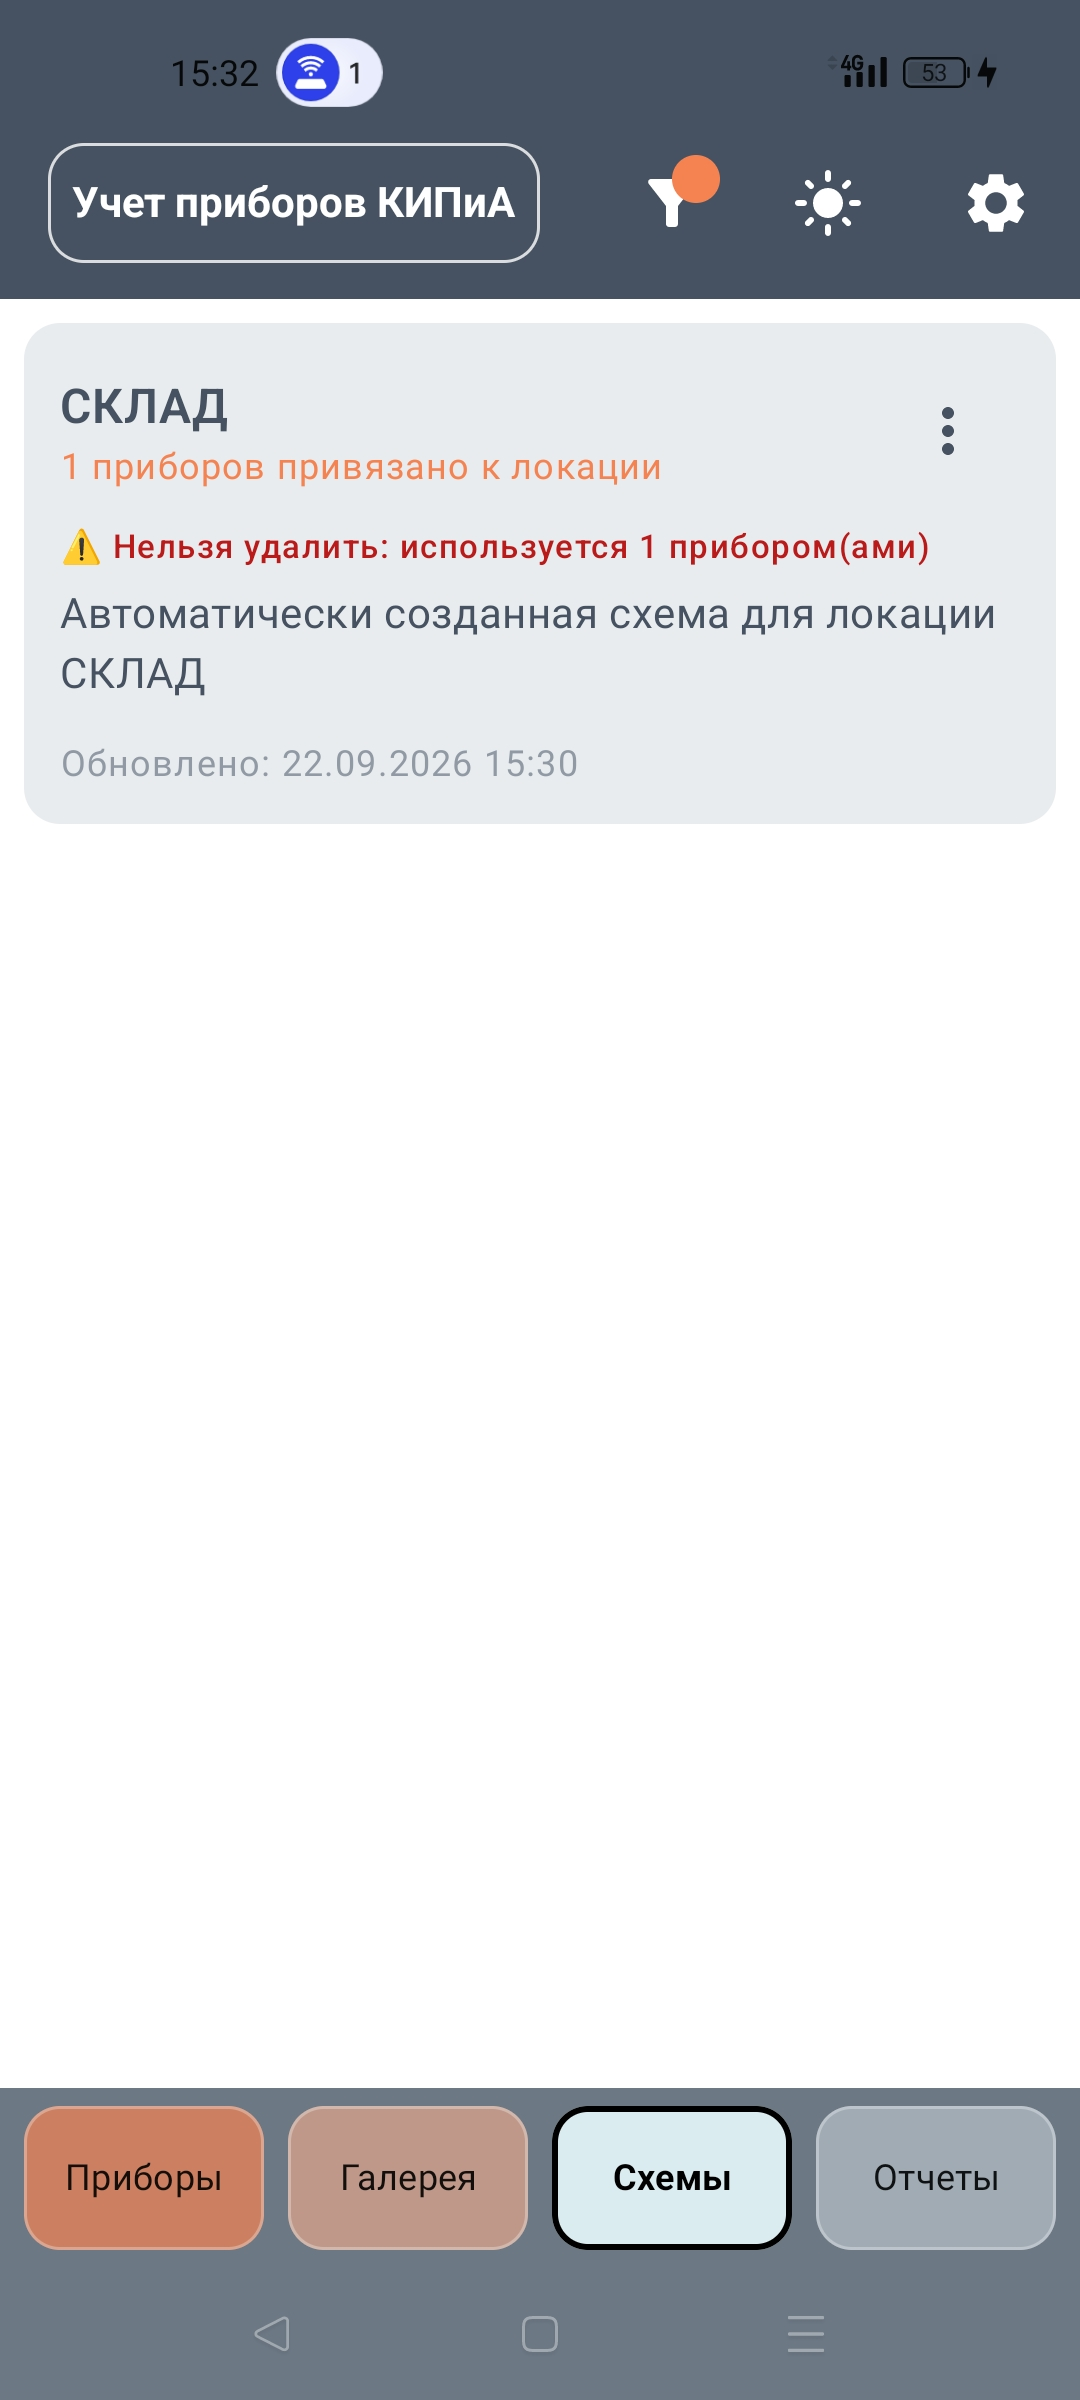
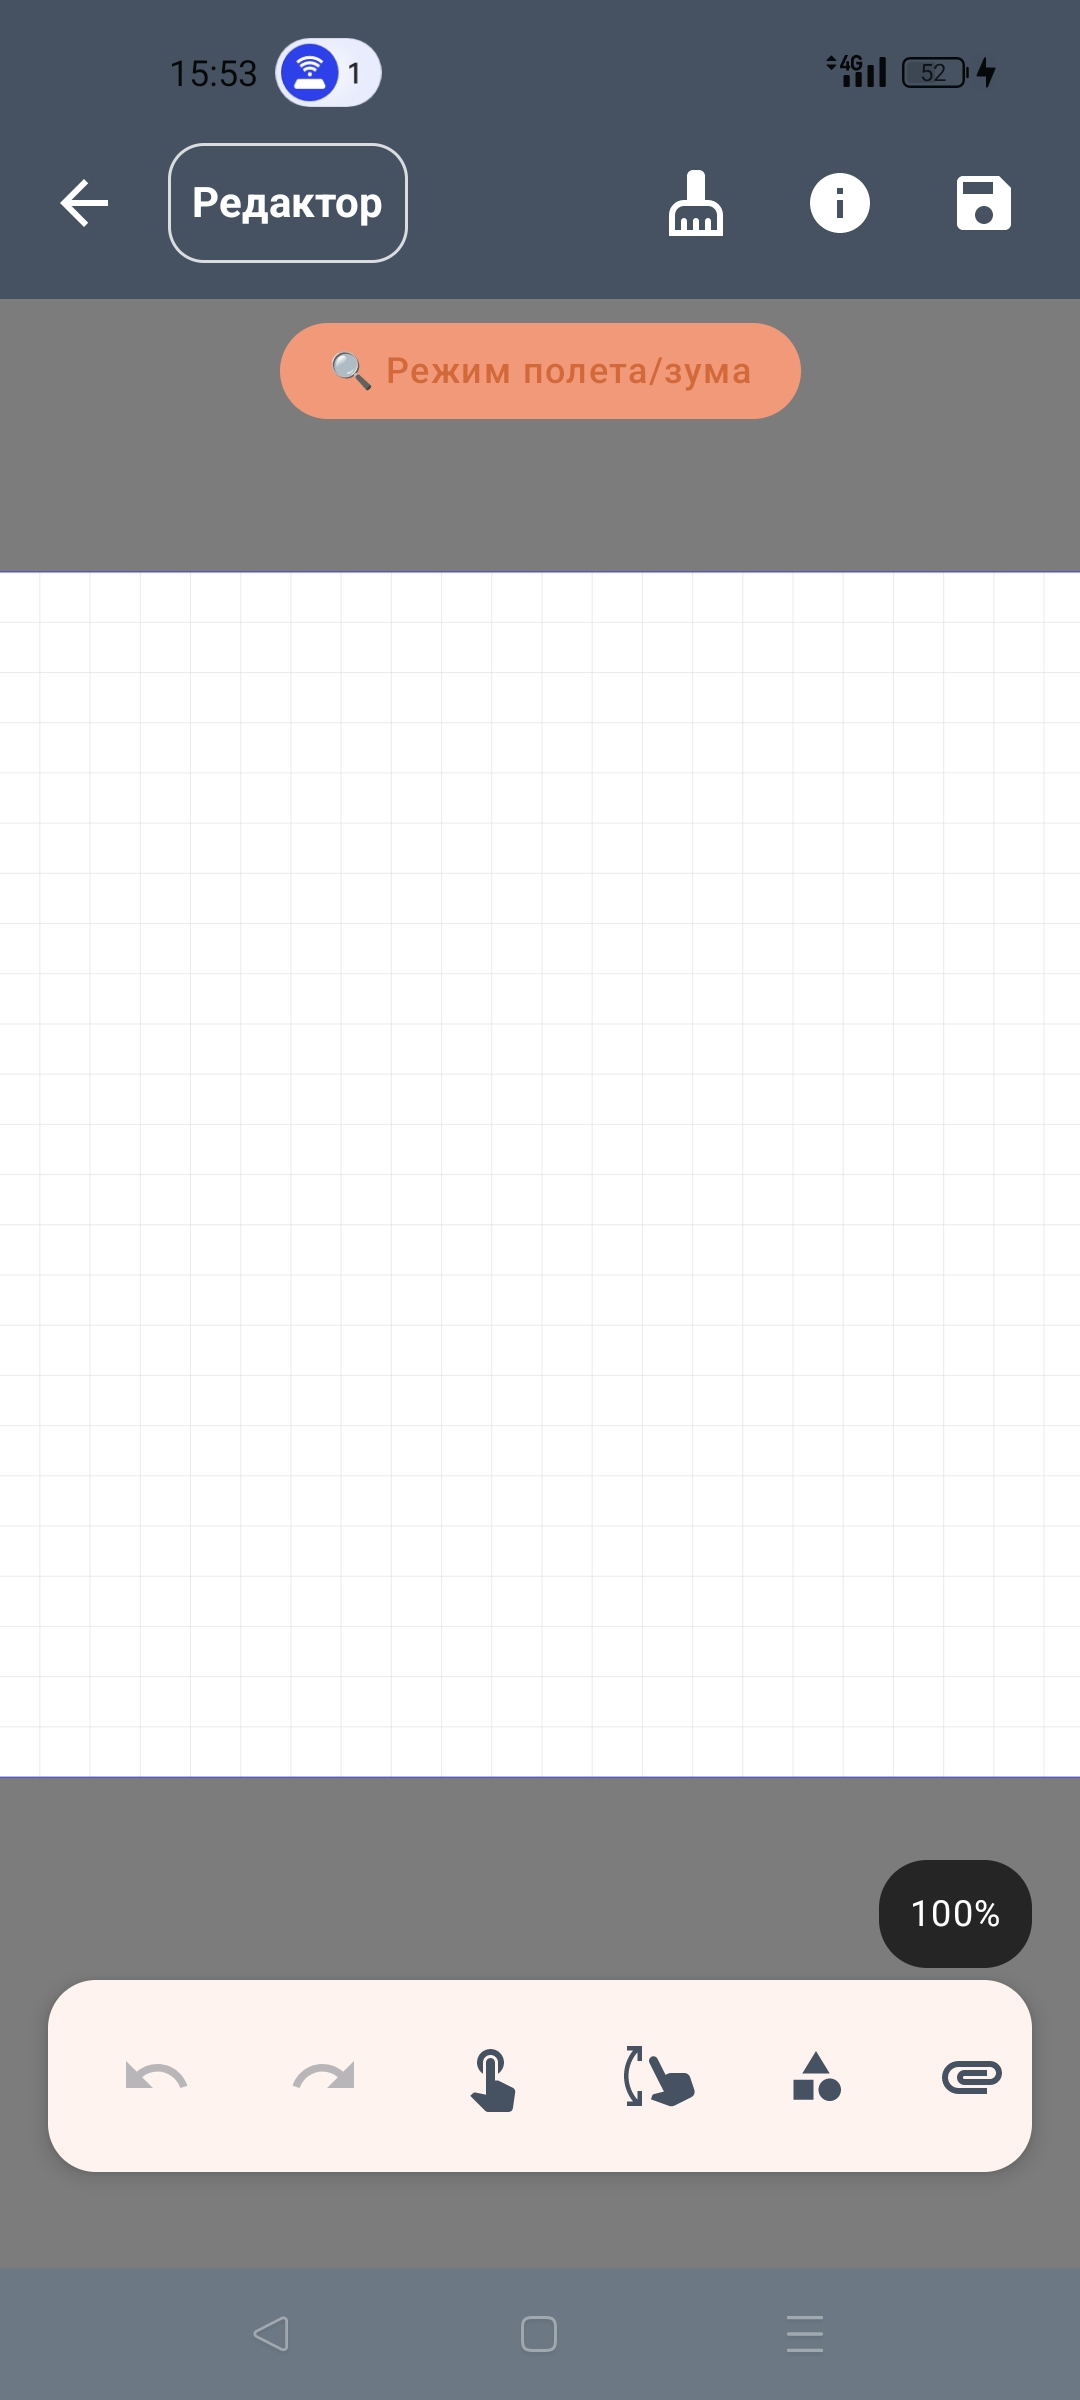
23.09.26 v 1.0.7 + исправления отображения устройств на схеме

diff --git a/app/src/main/java/com/kipia/management/mobile/ui/components/scheme/utils/DeviceUtils.kt b/app/src/main/java/com/kipia/management/mobile/ui/components/scheme/utils/DeviceUtils.kt
@@ -7,6 +7,7 @@ import androidx.compose.ui.graphics.drawscope.DrawScope
 import androidx.compose.ui.graphics.drawscope.Stroke
 import androidx.compose.ui.graphics.drawscope.rotate
 import androidx.compose.ui.graphics.drawscope.drawIntoCanvas
+import androidx.compose.ui.graphics.drawscope.translate
 import androidx.compose.ui.graphics.nativeCanvas
 import androidx.compose.ui.graphics.painter.Painter
 import androidx.compose.ui.graphics.toArgb
@@ -15,12 +16,20 @@ import androidx.compose.ui.graphics.toArgb
  * Иконный размер — базовый размер для отрисовки на схеме.
  */
 private const val ICON_BASE_SIZE = 45f
+private const val TEXT_GAP = 5f
 
 private val SelectionColor = Color.Cyan
 private val SelectionGlow  = Color(0x40_00FFFF)
 
 /**
  * Рисует иконку прибора, используя переданный Painter (вектор или растр).
+ *
+ * Реализация соответствует Android-логике:
+ * - ViewGroup высотой 50px (45px иконка + 5px текст сверху)
+ * - Иконка внизу ViewGroup (gravity BOTTOM)
+ * - Текст сверху ViewGroup (gravity TOP)
+ * - Pivot point на границе иконки и текста: (22.5, 5) — между иконкой и текстом
+ * - Текст не поворачивается (компенсация через обратный поворот)
  *
  * @param painter       объект для отрисовки иконки (загружается через painterResource)
  * @param isSelected    выделен ли прибор
@@ -37,47 +46,71 @@ fun DrawScope.drawDevice(
     valveText: String? = null,
     valveTextColor: Color = Color.Black
 ) {
-    val size = ICON_BASE_SIZE * scale
-    val cx = size / 2f
-    val cy = size / 2f
+    val iconSize = ICON_BASE_SIZE * scale       // 45 * scale
+    val textGap = TEXT_GAP * scale               // 5 * scale
+    val pivotX = iconSize / 2f                    // 22.5 * scale
+    val pivotY = textGap                          // 5 * scale — граница между текстом (сверху) и иконкой (снизу)
+    val iconCenterY = textGap + iconSize / 2f     // центр иконки для выделения
 
-    rotate(degrees = rotationDeg, pivot = Offset(cx, cy)) {
-        with(painter) {
-            draw(size = Size(size, size))
+    // Иконка: рисуем с поворотом вокруг pivot (pivotX, pivotY)
+    // Иконка размещена внизу ViewGroup: смещение по Y = textGap
+    rotate(degrees = rotationDeg, pivot = Offset(pivotX, pivotY)) {
+        translate(left = 0f, top = textGap) {
+            with(painter) {
+                draw(size = Size(iconSize, iconSize))
+            }
+        }
+
+        if (isSelected) {
+            val r = iconSize / 2f
+            drawCircle(
+                color  = SelectionGlow,
+                radius = r + 5f * scale,
+                center = Offset(pivotX, iconCenterY),
+                style  = Stroke(width = 6f * scale)
+            )
+            drawCircle(
+                color  = SelectionColor,
+                radius = r + 2f * scale,
+                center = Offset(pivotX, iconCenterY),
+                style  = Stroke(width = 1.8f * scale)
+            )
         }
     }
 
-    if (isSelected) {
-        val r = size / 2f
-        drawCircle(
-            color  = SelectionGlow,
-            radius = r + 5f * scale,
-            center = Offset(cx, cy),
-            style  = Stroke(width = 6f * scale)
-        )
-        drawCircle(
-            color  = SelectionColor,
-            radius = r + 2f * scale,
-            center = Offset(cx, cy),
-            style  = Stroke(width = 1.8f * scale)
-        )
-    }
-
+    // Текст: рисуем НЕ поворачиваемым, с компенсацией поворота
     if (!valveText.isNullOrBlank()) {
         drawIntoCanvas { canvas ->
             val paint = android.graphics.Paint().apply {
                 color = valveTextColor.toArgb()
-                textSize = 11f * scale
+                textSize = 12f * scale
                 isAntiAlias = true
                 textAlign = android.graphics.Paint.Align.CENTER
                 isFakeBoldText = true
             }
 
-            val textBounds = android.graphics.Rect()
-            paint.getTextBounds(valveText, 0, valveText.length, textBounds)
-            val textY = -textBounds.bottom - 2f * scale
+            // Позиция текста в локальных координатах (без поворота):
+            // Текст по центру X (pivotX), сверху иконки (y = textGap / 2)
+            val localTextX = pivotX
+            val localTextY = textGap / 2f
 
-            canvas.nativeCanvas.drawText(valveText, cx, textY, paint)
+            // Смещение от pivot до текста
+            val dx = localTextX - pivotX  // = 0
+            val dy = localTextY - pivotY  // = textGap/2 - iconSize/2
+
+            // Применяем поворот ViewGroup к позиции текста
+            // (текст рисуется горизонтальным, но его позиция вращается вместе с иконкой)
+            val radians = Math.toRadians(rotationDeg.toDouble()).toFloat()
+            val cos = kotlin.math.cos(radians)
+            val sin = kotlin.math.sin(radians)
+
+            val rotatedDx = dx * cos - dy * sin
+            val rotatedDy = dx * sin + dy * cos
+
+            val textX = pivotX + rotatedDx
+            val textBaselineY = pivotY + rotatedDy
+
+            canvas.nativeCanvas.drawText(valveText, textX, textBaselineY, paint)
         }
     }
 }

diff --git a/app/src/main/java/com/kipia/management/mobile/ui/components/scheme/GestureLayer.kt b/app/src/main/java/com/kipia/management/mobile/ui/components/scheme/GestureLayer.kt
@@ -216,7 +216,7 @@ private suspend fun PointerInputScope.setupSelectionGestures(
     debugMode: Boolean,
     onTapPoint: (Offset) -> Unit
 ) {
-    val baseDeviceSize = 60f
+    val baseDeviceSize = 45f
 
     Timber.d("👆 setupSelectionGestures: scale=$scale, offset=$offset")
 
@@ -372,20 +372,30 @@ private fun findTargetCorrect(
     baseDeviceSize: Float
 ): Pair<String, DragTargetType>? {
 
-    // 1. Проверяем приборы (уже правильно)
+    // 1. Проверяем приборы (через обратную трансформацию для учёта поворота)
     for (device in devices.reversed()) {
+        val screenSize = baseDeviceSize * scale
+        val halfSize = screenSize / 2f
+        val textGap = 5f * scale
+        val radians = Math.toRadians(device.rotation.toDouble())
+        val sin = kotlin.math.sin(radians).toFloat()
+        val cos = kotlin.math.cos(radians).toFloat()
+
         val screenX = device.x * scale + offset.x
         val screenY = device.y * scale + offset.y
-        val screenSize = baseDeviceSize * scale
 
-        val deviceRect = Rect(
-            left = screenX,
-            top = screenY,
-            right = screenX + screenSize,
-            bottom = screenY + screenSize
-        )
+        val adjustedX = screenX - halfSize + halfSize * sin
+        val adjustedY = screenY - halfSize - halfSize * cos - textGap
 
-        if (deviceRect.contains(screenPoint)) {
+        // Обратная трансформация: экранная точка → локальные координаты прибора
+        val a = screenPoint.x - adjustedX - halfSize
+        val b = screenPoint.y - adjustedY - textGap
+
+        val localX = halfSize + a * cos + b * sin
+        val localY = -a * sin + b * cos
+
+        // Иконка в локальных координатах: [0, screenSize] × [0, screenSize]
+        if (localX in 0f..screenSize && localY in 0f..screenSize) {
             return Pair(device.deviceId.toString(), DragTargetType.DEVICE)
         }
     }

diff --git a/app/src/main/java/com/kipia/management/mobile/ui/components/scheme/DeviceLayer.kt b/app/src/main/java/com/kipia/management/mobile/ui/components/scheme/DeviceLayer.kt
@@ -76,10 +76,21 @@ fun DeviceLayer(
 
         visibleDevices.forEach { schemeDevice ->
             deviceMap[schemeDevice.deviceId]?.let { device ->
+                val size = 45f * canvasState.scale
+                val halfSize = size / 2f
+                val radius = size / 2f
+                val radians = Math.toRadians(schemeDevice.rotation.toDouble())
+                val sin = kotlin.math.sin(radians).toFloat()
+                val cos = kotlin.math.cos(radians).toFloat()
+                
                 val screenX = schemeDevice.x * canvasState.scale + canvasState.offset.x
                 val screenY = schemeDevice.y * canvasState.scale + canvasState.offset.y
-
-                withTransform({ translate(screenX, screenY) }) {
+                
+                val adjustedX = screenX - halfSize + radius * sin
+                val textGap = 5f * canvasState.scale
+                val adjustedY = screenY - halfSize - radius * cos - textGap
+                
+                withTransform({ translate(adjustedX, adjustedY) }) {
                     drawDevice(
                         painter       = manometerPainter,
                         isSelected    = schemeDevice.deviceId == selectedDeviceId,
